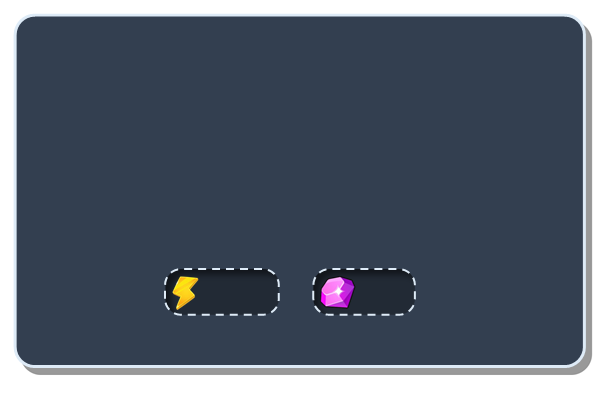
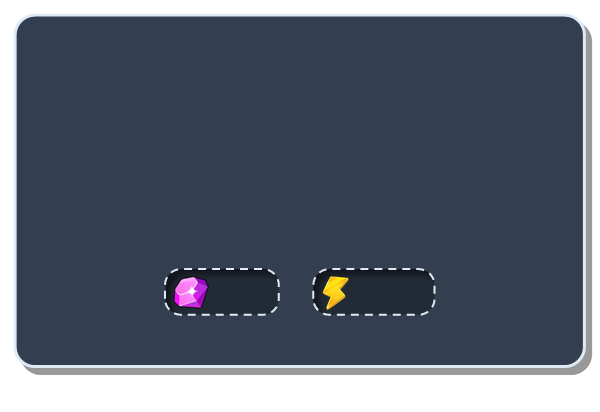
123

Changed region(s): [[0.6, 0.6408, 0.75, 0.7864], [0.51, 0.6699, 0.6, 0.7864], [0.27, 0.6699, 0.36, 0.7573]]

diff --git a/index.js b/index.js
@@ -3,7 +3,7 @@ let app ={stage:{},renderer:{}}, assets={}, SERVER_TM=0,fbs,client_id, objects={
 const WIN = 1, DRAW = 0, LOSE = -1, NOSYNC = 2;
 const MAX_NO_AUTH_RATING=1950;
 const MAX_NO_REP_RATING=1910;
-const MAX_NO_CONF_RATING=1900;
+const MAX_NO_CONF_RATING=1800;
 const DAYS_TO_CONF_RATING=7;
 const COM_URL='https://akukamil.github.io/com'
 const RATING_FOR_ALPHA=1720
@@ -1679,7 +1679,6 @@ online_game = {
 	unique_opps:[],
 	my_moves_hist:[],
 	opp_moves_hist:[],
-	energyCollected:0,
 	trnm:0,
 	bgame:0,
 	gid:0,
@@ -1733,7 +1732,7 @@ online_game = {
 		objects.oppThinkTime.text=''
 
 		//фиксируем врему начала игры
-		this.energyCollected=0
+		this.crystalsCollected=0
 		this.startTime=tm
 		this.lastMoveTm=tm
 		my_data.totalThinkTime=0
@@ -2108,6 +2107,7 @@ online_game = {
 	async stop(result) {
 
 		this.on=0
+		let energyCollected=0
 		let crystalsCollected=0
 
 		const res_array = [
@@ -2181,9 +2181,8 @@ online_game = {
 		else
 			sound.play('win');
 		
-		this.energyCollected+=result_number===WIN?5:3
-		
-		
+		crystalsCollected+=result_number===WIN?5:3
+				
 		//проект альфа
 		if (my_data.rating>RATING_FOR_ALPHA&&my_role==='slave'){
 						
@@ -2194,11 +2193,10 @@ online_game = {
 			}			
 		
 		}
-
 		
 		//если это турнир
 		if (this.trnm){
-			this.energyCollected+=30
+			crystalsCollected+=30
 			trnm.process_game_end(result_number,this.myThinkingTimeAdv)			
 		}
 
@@ -2215,8 +2213,8 @@ online_game = {
 			my_data.games++;
 			fbs.ref('players/'+my_data.uid+'/games').set(my_data.games);
 			
-			//кристаллы за слепую игру
-			if (this.bgame) crystalsCollected+=10
+			//энергия за слепую игру
+			if (this.bgame) energyCollected+=10
 
 			//контрольные концовки логируем на виртуальной машине
 			if (my_data.rating>1800 || opp_data.rating>1800){
@@ -2224,17 +2222,16 @@ online_game = {
 				const data={uid:my_data.uid,p1:objects.my_card_name.text,p2:objects.opp_card_name.text,res:result_number,f:result,d:duration,games:my_data.games,r:[old_rating,my_data.rating],g:this.gid,cid:client_id,tm:'TMS'}
 				my_ws.safe_send({cmd:'log',logger:'corners_games',data});
 			}
-
 		}
 		
 				
 		//сообщение об изменении рейтинга		
 		if (this.trnm)
-			await big_msg.show({t1:result_info,t2:`${['Рейтинг: ','Rating: '][LANG]} ${old_rating} > ${my_data.rating}`,t3:'вернитесь в меню турнира для продолжения.',energy:this.energyCollected,crystals:crystalsCollected})
+			await big_msg.show({t1:result_info,t2:`${['Рейтинг: ','Rating: '][LANG]} ${old_rating} > ${my_data.rating}`,t3:'вернитесь в меню турнира для продолжения.',energy:energyCollected,crystals:crystalsCollected})
 		else
-			await big_msg.show({t1:result_info,t2:`${['Рейтинг: ','Rating: '][LANG]} ${old_rating} > ${my_data.rating}`,fb:1,t3:auth_msg,energy:this.energyCollected,crystals:crystalsCollected})
+			await big_msg.show({t1:result_info,t2:`${['Рейтинг: ','Rating: '][LANG]} ${old_rating} > ${my_data.rating}`,fb:1,t3:auth_msg,energy:energyCollected,crystals:crystalsCollected})
 
-		pref.change_energy(this.energyCollected)
+		pref.change_energy(energyCollected)
 		pref.change_crystals(crystalsCollected)
 
 	},
@@ -2312,7 +2309,7 @@ bot_game = {
 
 		let result_number = res_array.find( p => p[0] === result)[1];
 		let result_info = res_array.find( p => p[0] === result)[2][LANG];
-		let energyCollected=0
+		let crystalsCollected=0
 
 		//выключаем элементы
 		objects.stop_bot_button.visible = false
@@ -2329,13 +2326,13 @@ bot_game = {
 			if (this.level>4)
 				this.level=4	
 			else
-				energyCollected=this.level*10
+				crystalsCollected=this.level*10
 			safe_ls('cornersBotLevel',this.level)
 			
 		}
 
-		await big_msg.show({t1:result_info, t2:')))',t3:'',fb:1,energy:energyCollected})
-		pref.change_energy(energyCollected)		
+		await big_msg.show({t1:result_info, t2:')))',t3:'',fb:1,crystals:crystalsCollected})
+		pref.change_crystals(crystalsCollected)		
 
 	},
 
@@ -2586,16 +2583,11 @@ bot_game = {
 		}
 	  }
 
-
 	  for (let y = 0; y < 8; y++) {
 		for (let x = 0; x < 8; x++) {
-		  const piece = brd[y][x];
-
-		  if (piece === 2)
-			setValue(y, x, 1, 1.0)
-		  if (piece === 1)
-			setValue(y, x, 2, 1.0)
-
+		  const piece = brd[y][x]
+		  if (piece === 1) setValue(y, x, 1, 1.0)
+		  if (piece === 2) setValue(y, x, 2, 1.0)
 		}
 	  }
 
@@ -3321,7 +3313,7 @@ game = {
 		this.startLock=0
 		if (this.trnm||this.bg) {
 			this.startLock=1
-			setTimeout(()=>{this.startLock=0},3000)
+			setTimeout(()=>{this.startLock=0},3000)			
 		}
 
 		if (this.opponent!=='') this.opponent.clear()
@@ -3369,7 +3361,11 @@ game = {
 		objects.my_card_cont.visible=true
 		objects.opp_card_cont.visible=true
 		
-
+		//цвет доски
+		objects.bcg.tint=0xffffff
+		if (this.bg) objects.bcg.tint=0xcccc00
+		if (this.trnm) objects.bcg.tint=0xffccff
+		
 		//обозначаем какой сейчас ход
 		this.round=0
 		objects.cur_move_text.text=['Ход: ','Move: '][LANG]+this.round
@@ -6042,9 +6038,9 @@ pref={
 		setInterval(()=>{
 
 			if(i===25) this.update_server_tm()
-			if(i===3) this.check_crystals2()
-			if(i===6) this.check_energy2()
-
+			if(i===3) this.check_energy()
+			if(i===6) this.check_crystals()
+			
 			i = (i + 1) % 60
 
 		},1000)
@@ -6098,89 +6094,81 @@ pref={
 
 	},
 
-	change_crystals(amount){
+	change_energy(amount){
 
-		my_data.crystals+=amount
-		if (my_data.crystals>120) my_data.crystals=120
-		if (my_data.crystals<0) my_data.crystals=0
+		my_data.energy+=amount
+		if (my_data.energy>120) my_data.energy=120
+		if (my_data.energy<0) my_data.energy=0
 
-		objects.pref_crystals_info.text=my_data.crystals
-		fbs.ref('players/'+my_data.uid+'/crystals').set(my_data.crystals)
+		objects.pref_energy_info.text=my_data.energy
+		fbs.ref('players/'+my_data.uid+'/energy').set(my_data.energy)
 
 	},
 
-	change_energy(amount){
+	change_crystals(amount){
 
 		if (amount===0) return
 
-		my_data.energy+=amount
-		objects.pref_energy_info.text=my_data.energy
-		safe_ls('corners_energy',my_data.energy)
+		my_data.crystals+=amount
+		objects.pref_crystals_info.text=my_data.crystals
+		safe_ls('corners_crystals',my_data.crystals)
 
 		//отправляем в топ3
-		my_ws.safe_send({cmd:'top3',path:'_day_top3',val:{uid:my_data.uid,val:my_data.energy}})
+		my_ws.safe_send({cmd:'top3',path:'_day_top3',val:{uid:my_data.uid,val:my_data.crystals}})
 
 	},
 
-	check_energy2(){
+	check_crystals(){
 
 		//нужно удалит первую версию
 
 		if(!SERVER_TM) return
-		const prv_tm=safe_ls('corners_energy_prv_tm')
+		const prv_tm=safe_ls('corners_crystals_prv_tm')
 
 		const cur_msk_day=+new Date(SERVER_TM).toLocaleString('en-US', {timeZone: 'Europe/Moscow',day:'numeric'})
 		const prv_msk_day=+new Date(prv_tm).toLocaleString('en-US', {timeZone: 'Europe/Moscow',day:'numeric'})
 
+		//день поменялся начинаем заново
 		if (cur_msk_day!==prv_msk_day){
-
-			//день поменялся начинаем заново
-			my_data.energy=0
-			objects.pref_energy_info.text=my_data.energy
-			safe_ls('corners_energy',my_data.energy)
-			
-			//reset bot level
-			//bot_game.level=0
-			//safe_ls('cornersBotLevel',0)
-			
+			my_data.crystals=0
+			objects.pref_crystals_info.text=my_data.crystals
+			safe_ls('corners_crystals',my_data.crystals)
 		}
 
-		safe_ls('corners_energy_prv_tm',SERVER_TM)
+		safe_ls('corners_crystals_prv_tm',SERVER_TM)
 
 	},
 
-	check_crystals2(){
-		
-		return
+	check_energy(){
 
 		if(!SERVER_TM) return
 		
 		//если нет данных (новый игрок)
-		if (!my_data.c_prv_tm) {
-			my_data.c_prv_tm=SERVER_TM
-			fbs.ref('players/'+my_data.uid+'/c_prv_tm').set(SERVER_TM)
+		if (!my_data.e_prv_tm) {
+			my_data.e_prv_tm=SERVER_TM
+			fbs.ref('players/'+my_data.uid+'/e_prv_tm').set(SERVER_TM)
 			return
 		}
 			
-		const d=SERVER_TM-my_data.c_prv_tm
+		const d=SERVER_TM-my_data.e_prv_tm
 		const int_passed=Math.floor(d/(1000*60*60))
 		if (int_passed>0){
 
 			//уменьшаем только для рейтинговых игроков
 			if (my_data.rating>MAX_NO_CONF_RATING){
 				
-				this.change_crystals(-int_passed)	
+				this.change_energy(-int_passed)	
 				
 				//закончились монеты
 				if (my_data.crystals<=0){	
-					pmsg.add({t:`У вас закончились кристаллы. Ваш рейтинг понижен до ${MAX_NO_CONF_RATING}`,timeout:6000})
+					pmsg.add({t:`У вас закончилась энергия. Ваш рейтинг понижен до ${MAX_NO_CONF_RATING}`,timeout:6000})
 					my_data.rating=MAX_NO_CONF_RATING
 					fbs.ref('players/'+my_data.uid+'/rating').set(my_data.rating)
 				}
 			}
 			
-			my_data.c_prv_tm=SERVER_TM
-			fbs.ref('players/'+my_data.uid+'/c_prv_tm').set(SERVER_TM)
+			my_data.e_prv_tm=SERVER_TM
+			fbs.ref('players/'+my_data.uid+'/e_prv_tm').set(SERVER_TM)
 		}	
 	},
 
@@ -6747,7 +6735,7 @@ lobby={
 	state_listener_timeout:0,
 	perm_room:'',
 	trnm_check_tm:0,
-	INFO_MSG_ID:1,
+	INFO_MSG_ID:4,
 
 	activate() {
 
@@ -6812,9 +6800,9 @@ lobby={
 		if(!(info_data?.id===this.INFO_MSG_ID)){
 			info_data={read:0,id:this.INFO_MSG_ID}
 			safe_ls('corners_info',info_data)
-		}
-		objects.lobby_info_btn.alpha=info_data.read?0.25:1
-		
+			objects.lobby_info_btn.alpha=info_data.read?0.25:1
+			//this.info_btn_down(1)
+		}	
 
 	},
 
@@ -7617,7 +7605,7 @@ lobby={
 
 	bgBtnDown(){		
 		
-		return
+		//return
 		
 		if (anim3.any_on()) {
 			sound.play('locked');
@@ -7739,17 +7727,16 @@ lobby={
 
 	},
 
-	info_btn_down(){
+	info_btn_down(force_show){
 
-		if (anim3.any_on()) {
+		if (!force_show&&anim3.any_on()) {
 			sound.play('locked');
 			return
 		};
 		sound.play('click');
 
-		//objects.info_msg.text=`Новые правила:\n1.Игрокам начислено 120 кристаллов,но для игроков с рейтингом выше ${MAX_NO_CONF_RATING} они расходуются со скоростью 1 кристалл в час. Если количество кристаллов достигнет 0, то рейтинг игрока понизится до ${MAX_NO_CONF_RATING}. Чтобы заработать кристаллы, необходимо принять участие в слепых играх с 18:45 до 19:45 (Мск). За каждую партию будет начислено 10 кристаллов.`
-		objects.info_msg.text=')))'
-		safe_ls('durak_info',{read:1,id:this.INFO_MSG_ID})
+		objects.info_msg.text=`Новые правила:\n1.Игрокам начислено 120 кристаллов,но для игроков с рейтингом выше ${MAX_NO_CONF_RATING} они расходуются со скоростью 1 кристалл в час. Если количество кристаллов достигнет 0, то рейтинг игрока понизится до ${MAX_NO_CONF_RATING}. Чтобы заработать кристаллы, необходимо принять участие в слепых играх с 18:45 до 19:45 (Мск). За каждую партию будет начислено 10 кристаллов.`
+		objects.info_msg_date.text='25.08.2026'
 		anim3.add(objects.info_cont, {alpha: [0, 1, 'linear']}, true, 0.25);
 
 	},
@@ -8659,11 +8646,11 @@ async function init_game_env(lang) {
 	my_data.name = (other_data?.name) || my_data.name
 	my_data.nick_tm = other_data?.nick_tm || 0
 	my_data.avatar_tm = other_data?.avatar_tm || 0;
-	my_data.crystals = 120//other_data?.crystals ?? 120
-	my_data.c_prv_tm = other_data?.c_prv_tm ||0
+	my_data.energy = 120//other_data?.energy??120
+	my_data.e_prv_tm = other_data?.e_prv_tm ||0
 	my_data.trnm = other_data?.trnm ||0
 	
-	my_data.energy=safe_ls('corners_energy')||0
+	my_data.crystals=safe_ls('corners_crystals')||0
 	my_data.design_id = safe_ls('corners_design_id') || 0
 
 	//правильно определяем аватарку
@@ -8697,7 +8684,7 @@ async function init_game_env(lang) {
 	await pref.load_design(my_data.design_id)
 
 	//проверяем блокировку
-	my_data.blocked=await fbs_once('blocked/'+my_data.uid)
+	my_data.blocked=await fbs_once('blocked/'+my_data.uid)||0
 
 	//подписываемся на новые сообщения
 	fbs.ref('inbox/'+my_data.uid).set({tm:Date.now()})
@@ -8712,7 +8699,7 @@ async function init_game_env(lang) {
 		auth_mode:my_data.auth_mode,
 		nick_tm:my_data.nick_tm,
 		avatar_tm:my_data.avatar_tm,
-		c_prv_tm:my_data.c_prv_tm,
+		e_prv_tm:my_data.e_prv_tm,
 		crystals:my_data.crystals,
 		tm:firebase.database.ServerValue.TIMESTAMP,
 		session_start:firebase.database.ServerValue.TIMESTAMP
